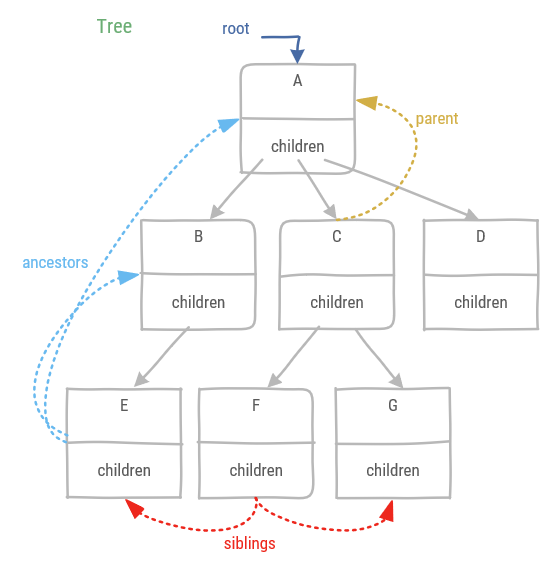
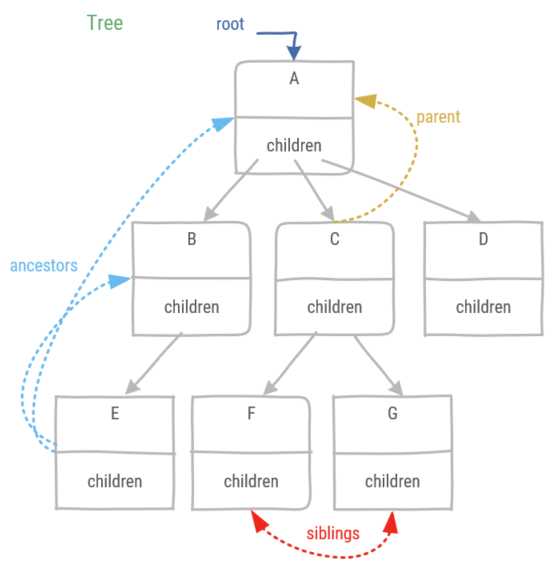
corrects a mistake regadering tree node relations

diff --git a/docs/tree/README.md b/docs/tree/README.md
@@ -19,7 +19,7 @@ A tree has a recursive definition:
 
 * A *parent* is the node of which the current node is a child. Note: the root node has no parent. For example **A** is the parent of **C**.
 * An *ancestor* is either the parent or a parent's node parent. Note: this is a recursive definition. For example **B** and **A** are ancestors of **E**.
-* The *siblings* are the nodes which have the same parent. For example **E**, **F**, and **G** are siblings.
+* The *siblings* are the nodes which have the same parent. For example **F**, and **G** are siblings.
 * *External* nodes are leaves or the root node. For example **A**, **D**, **E**, **F**, and **G** are external nodes.
 * *Internal* nodes are nodes which are not an external node. For example **B**, and **C** are internal nodes.
 

diff --git a/docs/README.md b/docs/README.md
@@ -31,6 +31,12 @@ The subjects are:
 
 ## Course materials
 
+Source code of the code examples 
+[GitHub repository with code examples](https://github.com/pcordemans/algorithms_examples)
+
+Contributions to or discussions about the course 
+[GitHub repository of the course content](https://github.com/pcordemans/devbit-algorithms)
+
 ## Course prerequisites
 
 * Basic programming knowledge
